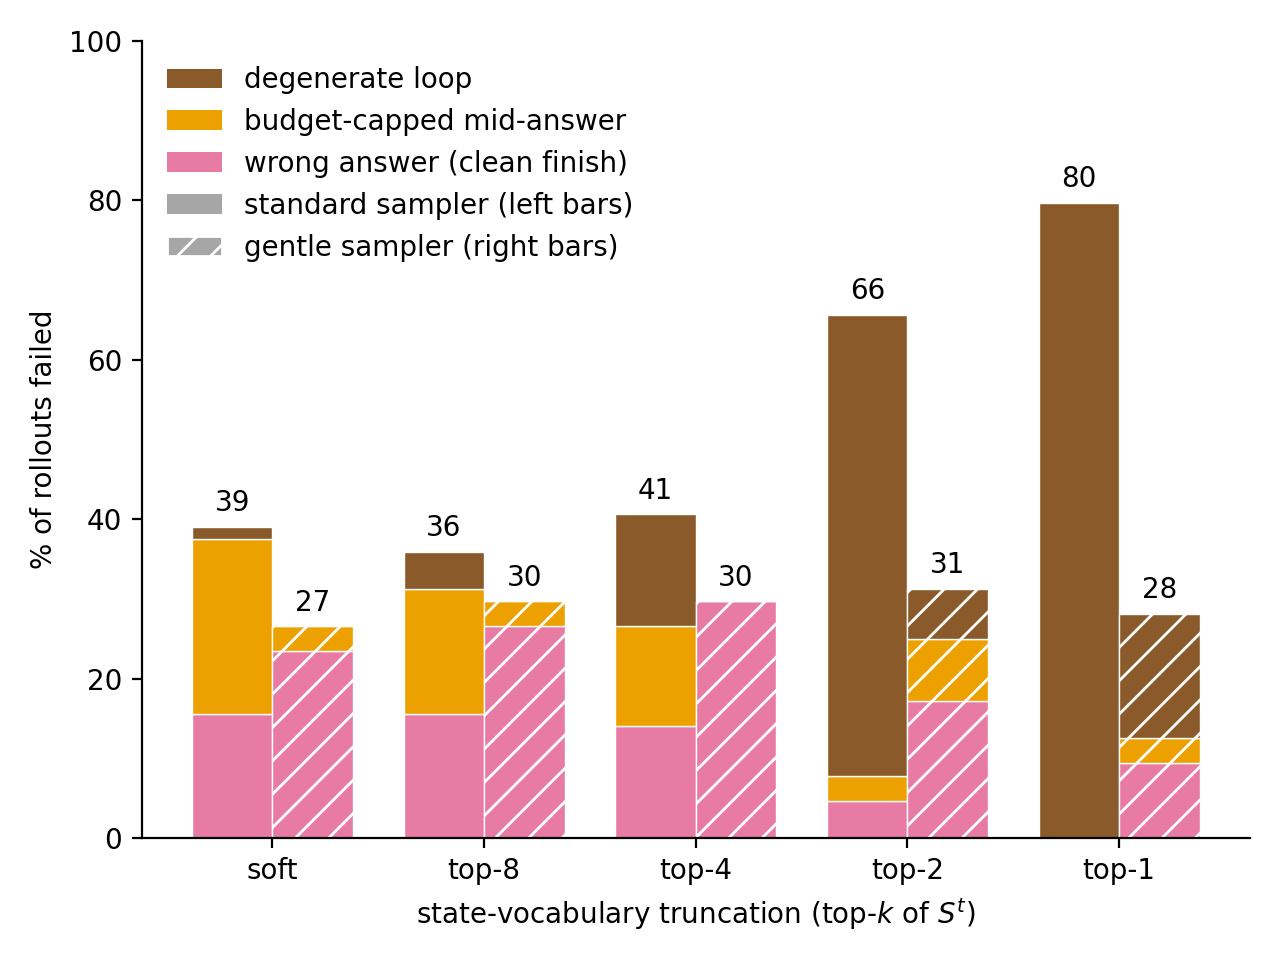
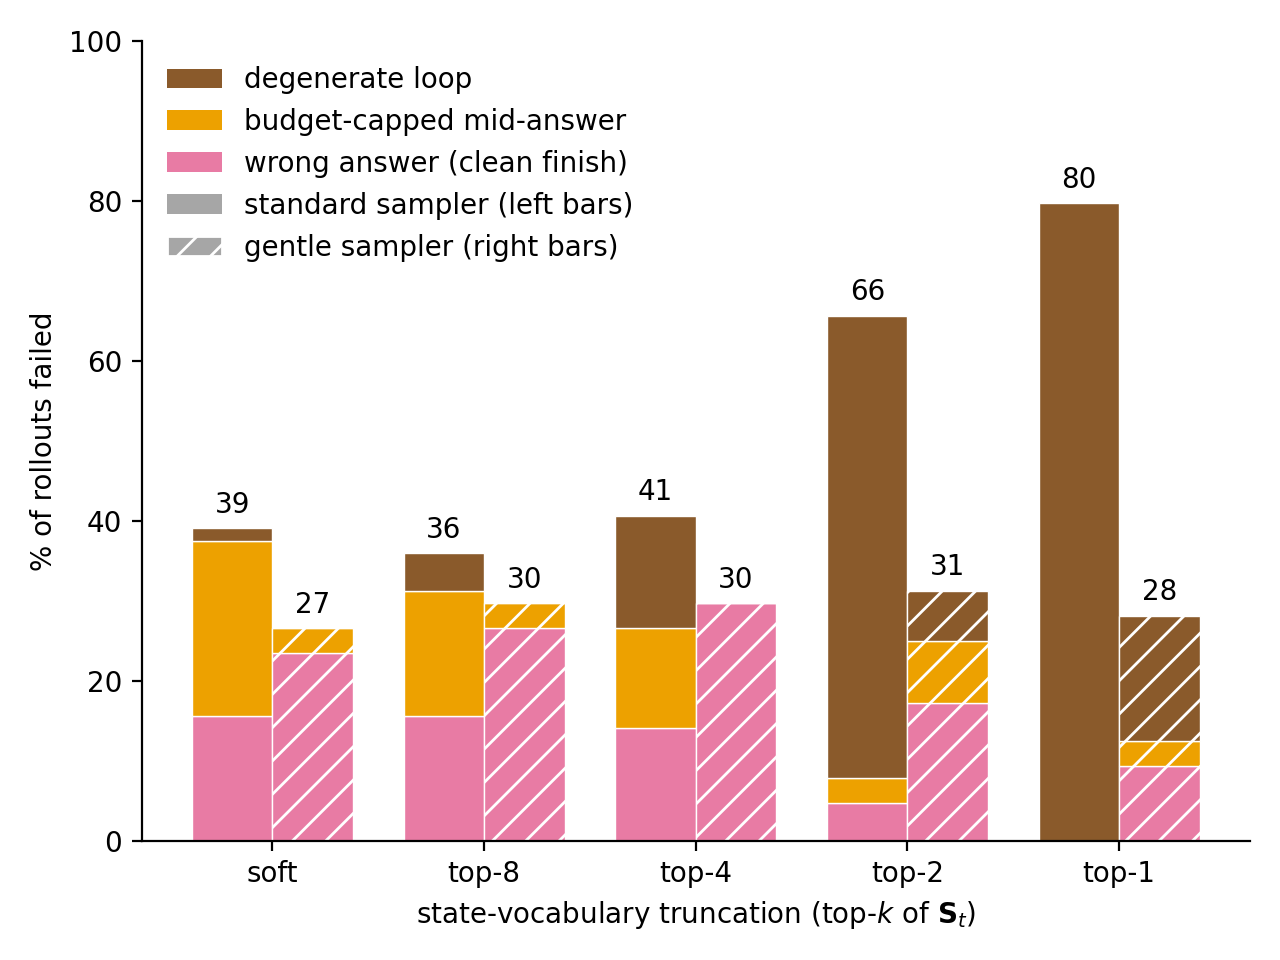
Bold S everywhere; card headers = operand/answer distributions S^t_i, S^{t+1}_{i+1}; drop x symbols from example figure
Claude-Session: https://claude.ai/code/session_01U8CiyQ7ySpBDkYEq4FzNBU

diff --git a/post.html b/post.html
@@ -56,27 +56,27 @@ p>em:first-child{color:var(--muted)}
 <h2>TL;DR:</h2>
 <p>Google DeepMind's recent model DiffusionGemma (DG) works differently from regular language models, including by passing distribution vectors in addition to tokens between generation steps. A priori, this allows it to pass vector-valued information that is illegible to monitors, sometimes called "latent reasoning". A recent paper found that DG nevertheless maintains high monitorability, but at the same time found that ablating the passed distribution degrades performance. Here, we show that this performance degradation is largely a sampler artifact, supporting the case for high monitorability. Nevertheless, we find some rare cases where the distribution vector is load-bearing computationally, however in a way that is easily interpretable. Overall, this underlines the paper's conclusion that DiffusionGemma remains highly monitorable, while nevertheless showing that there are cases where models can learn to use vector-valued information.</p>
 <h2>Introduction</h2>
-<p>DiffusionGemma is a text-generation model, based on the Gemma architecture. In short, generation looks like the following. Let $p$ be the prompt, and let $x_0\in\mathcal{V}^{C}$ be the noise-initialised token canvas comprising $C$ positions. The self-conditioning state $S_0\in\mathbb{R}^{C\times |\mathcal{V}|}$ is initialised uninformatively — there is no model output to feed back at the first step. Let $f$ denote a single forward pass through the transformer stack, which is a finetune of Gemma. Roughly, the final output $x_T$ then is obtained via</p>
+<p>DiffusionGemma is a text-generation model, based on the Gemma architecture. In short, generation looks like the following. Let $p$ be the prompt, and let $x_0\in\mathcal{V}^{C}$ be the noise-initialised token canvas comprising $C$ positions. The self-conditioning state $\mathbf{S}_0\in\mathbb{R}^{C\times |\mathcal{V}|}$ is initialised uninformatively — there is no model output to feed back at the first step. Let $f$ denote a single forward pass through the transformer stack, which is a finetune of Gemma. Roughly, the final output $x_T$ then is obtained via</p>
 <p>$$
 \begin{aligned}
 &\textbf{for } t = 0, \dots, T-1: \\[2pt]
-&\qquad S_{t+1} = f(p,\, x_t;\, S_t) \\[2pt]
-&\qquad x_{t+1} = \mathrm{sample}(S_{t+1})
+&\qquad \mathbf{S}_{t+1} = f(p,\, x_t;\, \mathbf{S}_t) \\[2pt]
+&\qquad x_{t+1} = \mathrm{sample}(\mathbf{S}_{t+1})
 \end{aligned}
 $$</p>
-<p>where $T$ is the number of diffusion steps. Importantly, $x_t$ attends bidirectionally to itself, and causally to $p$. $S_t[x_t]$ also functions as a confidence score for any token $x_t$: unless a confidence threshold is passed, $x_t$ gets replaced with a random token at every step $t$, facilitating exploration and correction. Two consequences matter for this post: at such open positions the canvas carries no information from one step to the next — $S_t$ is the only memory the model has there — and the pace of commitment is set by this confidence gate, so anything that artificially sharpens $S_t$ (such as truncating it to its top-k entries) makes the gate commit more positions, earlier.</p>
+<p>where $T$ is the number of diffusion steps. Importantly, $x_t$ attends bidirectionally to itself, and causally to $p$. $\mathbf{S}_t[x_t]$ also functions as a confidence score for any token $x_t$: unless a confidence threshold is passed, $x_t$ gets replaced with a random token at every step $t$, facilitating exploration and correction. Two consequences matter for this post: at such open positions the canvas carries no information from one step to the next — $\mathbf{S}_t$ is the only memory the model has there — and the pace of commitment is set by this confidence gate, so anything that artificially sharpens $\mathbf{S}_t$ (such as truncating it to its top-k entries) makes the gate commit more positions, earlier.</p>
 <p>For a visual and more detailed introduction to DiffusionGemma, see <a href="https://newsletter.maartengrootendorst.com/p/a-visual-guide-to-diffusiongemma">this post</a>.</p>
 <p>Thus, generation in DiffusionGemma differs in the following ways:</p>
-<ol><li>Generation happens as reverse diffusion, not as token-by-token autoregression. This is reminiscent of a looped transformer.</li><li>Attention is bidirectional.</li><li>Between every diffusion step, not only the current text output is sampled, but the output distributions $S_t$ across all positions are also passed to the next diffusion step $t+1$.</li></ol>
+<ol><li>Generation happens as reverse diffusion, not as token-by-token autoregression. This is reminiscent of a looped transformer.</li><li>Attention is bidirectional.</li><li>Between every diffusion step, not only the current text output is sampled, but the output distributions $\mathbf{S}_t$ across all positions are also passed to the next diffusion step $t+1$.</li></ol>
 <p>The last point is especially interesting, since it passes the vector-valued object between diffusion steps, in addition to the tokens $x_t$ lacking the $|\mathcal{V}|$ axis. A priori, this allows the model to transport drastically more information between diffusion steps in an illegible way, hindering monitorability.</p>
 <h2>Performance degradation from top-k truncation largely is a sampler artifact</h2>
-<p>Despite this a-priori risk, <a href="https://arxiv.org/abs/2606.20560">Engels et al.</a> found that DiffusionGemma scores similar monitorability to Gemma. [maybe give more deets] However, when truncating $S_t$ to just its top-k entries, performance of DG significantly dropped. This was in conflict with their other results suggesting high monitorability, since somehow the information in $S_t$ seemed to have been essential to DiffusionGemma.</p>
+<p>Despite this a-priori risk, <a href="https://arxiv.org/abs/2606.20560">Engels et al.</a> found that DiffusionGemma scores similar monitorability to Gemma. [maybe give more deets] However, when truncating $\mathbf{S}_t$ to just its top-k entries, performance of DG significantly dropped. This was in conflict with their other results suggesting high monitorability, since somehow the information in $\mathbf{S}_t$ seemed to have been essential to DiffusionGemma.</p>
 <p>When replicating their experiments, we observed that the model will often fall into a "degenerate loop", outputting the same token over and over, never reaching the final answer.</p>
 <p>We found that adopting a gentler sampler largely prevents this failure mode, suggesting that in fact the distribution is not essential to solve these problems. However, this does not rule out that there is a functional necessity in other tasks that the paper had not investigated.</p>
 <figure><img src="figs/fig1_gpqa_trunc_failures.png" alt="GPQA truncation failure modes"></figure>
-<p><em>A gentler sampler prevents the degenerate loop that caused performance degradation on top-k truncating the distributional state $S_t$ observed in <a href="https://arxiv.org/abs/2606.20560">Engels et al.</a></em>.</p>
+<p><em>A gentler sampler prevents the degenerate loop that caused performance degradation on top-k truncating the distributional state $\mathbf{S}_t$ observed in <a href="https://arxiv.org/abs/2606.20560">Engels et al.</a></em>.</p>
 <h2>A case study for using the distribution computationally: letter arithmetic</h2>
-<p>We next investigated whether there may still be some other tasks where $S_t$ in fact is essential. Note that in principle, there is no need for the model to use $S_t$ whatsoever to satisfy its training objective (indeed, most of the phenomena in <a href="https://arxiv.org/abs/2606.20560">Engels et al.</a> are explained by bidirectional attention+looping). However, it may facilitate trainability and exploration.</p>
+<p>We next investigated whether there may still be some other tasks where $\mathbf{S}_t$ in fact is essential. Note that in principle, there is no need for the model to use $\mathbf{S}_t$ whatsoever to satisfy its training objective (indeed, most of the phenomena in <a href="https://arxiv.org/abs/2606.20560">Engels et al.</a> are explained by bidirectional attention+looping). However, it may facilitate trainability and exploration.</p>
 <p>We therefore looked for tasks where the model plausibly would hold several "hypotheses" in superposition. Note that "superposition" in a simple form is already present in the pretraining data ("Today the weather is _", with "rainy" and "sunny" both plausible), so that we were especially interested in cases where this may have been induced by the model's generalization. [+compuaiton]</p>
 <p>We prompt DG with tasks of the form <em>"Pick any uppercase letter between A and W, write it, then write the letter three positions later in the alphabet, also in uppercase, separated by a comma."</em> DG answers these correctly on its own (e.g. "Letters: G, J"). We then capture a rollout mid-denoising, add probability mass $\varepsilon$ on a <em>different</em> source letter $x$ at the operand position — keeping it strictly sub-leading, so the committed canvas never changes — and re-run exactly one denoising step on paired re-noised canvases. We read out the response at the answer position, $R_c(x') = \log_{10}\big(\bar P^{\mathrm{pert}}_c(x') / \bar P^{\mathrm{base}}_c(x')\big)$, where $\bar P$ averages over the paired draws.</p>
 <figure><img src="figs/fig2a_transfer_map.png" alt="Letter-arithmetic transfer maps"></figure>

diff --git a/scripts/build_html.py b/scripts/build_html.py
@@ -79,8 +79,8 @@ def ill_letters_example():
     d = json.load(open(DATA / "letters_example.json"))
     cls = lambda tok: ("inj" if tok == d["x"] else "tgt" if tok == d["img"] else
                        "att" if tok in (d["ja"], d["nat"]) else "oth")
-    sub_t = "operand position $x_i$, step $t$"
-    sub_t1 = "answer position ${x'}_{i'}$, step $t{+}1$"
+    sub_t = "operand distribution $\\mathbf{S}^t_i$"
+    sub_t1 = "answer distribution $\\mathbf{S}^{t+1}_{i+1}$"
     head = (f'<div class="brow b4c ghead"><span></span><span class="gh s2">baseline</span>'
             f'<span></span><span class="gh s2">intervention (inject mass '
             f'$\\varepsilon={d["eps"]:g}$ on \'{E(d["x"])}\')</span></div>'

diff --git a/scripts/fig1_trunc_failures.py b/scripts/fig1_trunc_failures.py
@@ -76,7 +76,7 @@ for s, off, alpha in (("std", -w / 2, 1.0), ("gentle", w / 2, 1.0)):
         ax.text(xi, tot + 1.2, f"{tot:.0f}", ha="center", va="bottom")
 
 ax.set_xticks(x, [RUNG_LAB[r] for r in RUNGS])
-ax.set_xlabel("state-vocabulary truncation (top-$k$ of $S^t$)")
+ax.set_xlabel(r"state-vocabulary truncation (top-$k$ of $\mathbf{S}_t$)")
 ax.set_ylabel("% of rollouts failed")
 ax.set_ylim(0, 100)
 from matplotlib.patches import Patch

diff --git a/post.md b/post.md
@@ -8,17 +8,17 @@ Overall, this underlines the paper's conclusion that DiffusionGemma remains high
 
 ## Introduction
 
-DiffusionGemma is a text-generation model, based on the Gemma architecture. In short, generation looks like the following. Let $p$ be the prompt, and let $x_0\in\mathcal{V}^{C}$ be the noise-initialised token canvas comprising $C$ positions. The self-conditioning state $S_0\in\mathbb{R}^{C\times |\mathcal{V}|}$ is initialised uninformatively — there is no model output to feed back at the first step. Let $f$ denote a single forward pass through the transformer stack, which is a finetune of Gemma. Roughly, the final output $x_T$ then is obtained via
+DiffusionGemma is a text-generation model, based on the Gemma architecture. In short, generation looks like the following. Let $p$ be the prompt, and let $x_0\in\mathcal{V}^{C}$ be the noise-initialised token canvas comprising $C$ positions. The self-conditioning state $\mathbf{S}_0\in\mathbb{R}^{C\times |\mathcal{V}|}$ is initialised uninformatively — there is no model output to feed back at the first step. Let $f$ denote a single forward pass through the transformer stack, which is a finetune of Gemma. Roughly, the final output $x_T$ then is obtained via
 
 $$
 \begin{aligned}
 &\textbf{for } t = 0, \dots, T-1: \\[2pt]
-&\qquad S_{t+1} = f(p,\, x_t;\, S_t) \\[2pt]
-&\qquad x_{t+1} = \mathrm{sample}(S_{t+1})
+&\qquad \mathbf{S}_{t+1} = f(p,\, x_t;\, \mathbf{S}_t) \\[2pt]
+&\qquad x_{t+1} = \mathrm{sample}(\mathbf{S}_{t+1})
 \end{aligned}
 $$
 
-where $T$ is the number of diffusion steps. Importantly, $x_t$ attends bidirectionally to itself, and causally to $p$. $S_t[x_t]$ also functions as a confidence score for any token $x_t$: unless a confidence threshold is passed, $x_t$ gets replaced with a random token at every step $t$, facilitating exploration and correction. Two consequences matter for this post: at such open positions the canvas carries no information from one step to the next — $S_t$ is the only memory the model has there — and the pace of commitment is set by this confidence gate, so anything that artificially sharpens $S_t$ (such as truncating it to its top-k entries) makes the gate commit more positions, earlier.
+where $T$ is the number of diffusion steps. Importantly, $x_t$ attends bidirectionally to itself, and causally to $p$. $\mathbf{S}_t[x_t]$ also functions as a confidence score for any token $x_t$: unless a confidence threshold is passed, $x_t$ gets replaced with a random token at every step $t$, facilitating exploration and correction. Two consequences matter for this post: at such open positions the canvas carries no information from one step to the next — $\mathbf{S}_t$ is the only memory the model has there — and the pace of commitment is set by this confidence gate, so anything that artificially sharpens $\mathbf{S}_t$ (such as truncating it to its top-k entries) makes the gate commit more positions, earlier.
 
 For a visual and more detailed introduction to DiffusionGemma, see [this post](https://newsletter.maartengrootendorst.com/p/a-visual-guide-to-diffusiongemma).
 
@@ -26,13 +26,13 @@ Thus, generation in DiffusionGemma differs in the following ways:
 
 1. Generation happens as reverse diffusion, not as token-by-token autoregression. This is reminiscent of a looped transformer.
 2. Attention is bidirectional.
-3. Between every diffusion step, not only the current text output is sampled, but the output distributions $S_t$ across all positions are also passed to the next diffusion step $t+1$.
+3. Between every diffusion step, not only the current text output is sampled, but the output distributions $\mathbf{S}_t$ across all positions are also passed to the next diffusion step $t+1$.
 
 The last point is especially interesting, since it passes the vector-valued object between diffusion steps, in addition to the tokens $x_t$ lacking the $|\mathcal{V}|$ axis. A priori, this allows the model to transport drastically more information between diffusion steps in an illegible way, hindering monitorability.
 
 ## Performance degradation from top-k truncation largely is a sampler artifact
 
-Despite this a-priori risk, [Engels et al.](https://arxiv.org/abs/2606.20560) found that DiffusionGemma scores similar monitorability to Gemma. [maybe give more deets] However, when truncating $S_t$ to just its top-k entries, performance of DG significantly dropped. This was in conflict with their other results suggesting high monitorability, since somehow the information in $S_t$ seemed to have been essential to DiffusionGemma.
+Despite this a-priori risk, [Engels et al.](https://arxiv.org/abs/2606.20560) found that DiffusionGemma scores similar monitorability to Gemma. [maybe give more deets] However, when truncating $\mathbf{S}_t$ to just its top-k entries, performance of DG significantly dropped. This was in conflict with their other results suggesting high monitorability, since somehow the information in $\mathbf{S}_t$ seemed to have been essential to DiffusionGemma.
 
 When replicating their experiments, we observed that the model will often fall into a "degenerate loop", outputting the same token over and over, never reaching the final answer.
 
@@ -40,11 +40,11 @@ We found that adopting a gentler sampler largely prevents this failure mode, sug
 
 ![GPQA truncation failure modes](figs/fig1_gpqa_trunc_failures.png)
 
-*A gentler sampler prevents the degenerate loop that caused performance degradation on top-k truncating the distributional state $S_t$ observed in [Engels et al.](https://arxiv.org/abs/2606.20560)*.
+*A gentler sampler prevents the degenerate loop that caused performance degradation on top-k truncating the distributional state $\mathbf{S}_t$ observed in [Engels et al.](https://arxiv.org/abs/2606.20560)*.
 
 ## A case study for using the distribution computationally: letter arithmetic
 
-We next investigated whether there may still be some other tasks where $S_t$ in fact is essential. Note that in principle, there is no need for the model to use $S_t$ whatsoever to satisfy its training objective (indeed, most of the phenomena in [Engels et al.](https://arxiv.org/abs/2606.20560) are explained by bidirectional attention+looping). However, it may facilitate trainability and exploration.
+We next investigated whether there may still be some other tasks where $\mathbf{S}_t$ in fact is essential. Note that in principle, there is no need for the model to use $\mathbf{S}_t$ whatsoever to satisfy its training objective (indeed, most of the phenomena in [Engels et al.](https://arxiv.org/abs/2606.20560) are explained by bidirectional attention+looping). However, it may facilitate trainability and exploration.
 
 We therefore looked for tasks where the model plausibly would hold several "hypotheses" in superposition. Note that "superposition" in a simple form is already present in the pretraining data ("Today the weather is _", with "rainy" and "sunny" both plausible), so that we were especially interested in cases where this may have been induced by the model's generalization. [+compuaiton]
 
